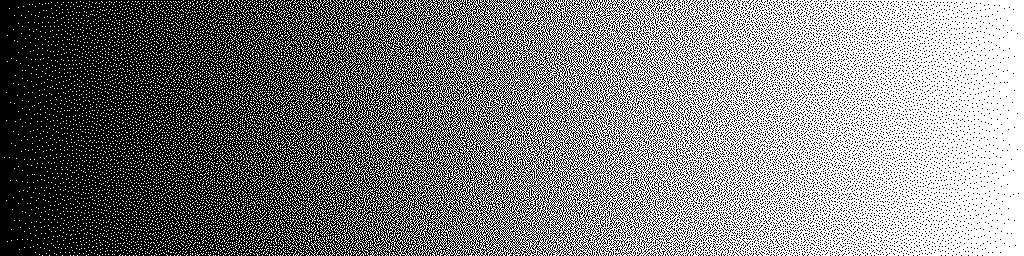
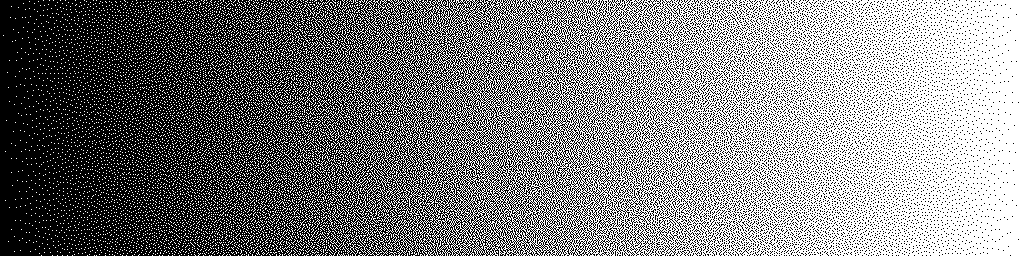
Include seeding area

diff --git a/tools/test_twelve/second_order_dither.py b/tools/test_twelve/second_order_dither.py
@@ -9,6 +9,11 @@ which should achieve +12 dB/octave.
 Uses mixed FS/JJN kernel switching for forward diffusion (our method),
 with a fixed FS reverse kernel for the second-order prediction.
 
+Implements edge seeding matching the Rust dither/basic.rs create_seeded_buffer:
+- reach=2 (JJN radius) padding with duplicated edge pixels
+- Processing includes seeding rows/columns to pre-warm error diffusion
+- No bounds checking in kernels (padding handles edges)
+
 Usage:
     python second_order_dither.py                    # Gray levels + gradient
     python second_order_dither.py --gray 0.5         # Single gray level
@@ -25,6 +30,9 @@ matplotlib.use('Agg')
 import matplotlib.pyplot as plt
 
 
+REACH = 2  # JJN kernel radius
+
+
 def lowbias32(x: np.uint32) -> np.uint32:
     """Lowbias32 hash - improved version with bias 0.107."""
     x = np.uint32(x)
@@ -37,144 +45,148 @@ def lowbias32(x: np.uint32) -> np.uint32:
 
 
 # ============================================================================
-# Error diffusion kernels
+# Seeded buffer (matches Rust create_seeded_buffer)
 # ============================================================================
 
-def apply_fs_ltr(buf, x, y, err):
-    h, w = buf.shape
-    if x + 1 < w:
-        buf[y, x + 1] += err * (7.0 / 16.0)
-    if y + 1 < h:
-        if x > 0:
-            buf[y + 1, x - 1] += err * (3.0 / 16.0)
-        buf[y + 1, x] += err * (5.0 / 16.0)
-        if x + 1 < w:
-            buf[y + 1, x + 1] += err * (1.0 / 16.0)
+def create_seeded_buffer(input_image):
+    """Create padded buffer with edge seeding, matching Rust create_seeded_buffer.
+
+    Buffer layout (reach=2):
+        cols: [0..2) overshoot | [2..4) left seed | [4..4+W) image | [4+W..6+W) right seed | [6+W..8+W) overshoot
+        rows: [0..2) top seed | [2..2+H) image | [2+H..4+H) bottom overshoot
+    """
+    height, width = input_image.shape
+    total_left = REACH * 2
+    total_right = REACH * 2
+    total_top = REACH
+    total_bottom = REACH
+
+    buf_width = total_left + width + total_right
+    buf_height = total_top + height + total_bottom
+    buf = np.zeros((buf_height, buf_width), dtype=np.float64)
+
+    # Copy real image data
+    buf[total_top:total_top + height, total_left:total_left + width] = input_image
+
+    seed_left_start = REACH  # columns [reach..reach*2]
+    seed_right_start = total_left + width  # columns [total_left+width..]
+
+    # Left seeding columns: duplicate first column of real image
+    for sx in range(REACH):
+        buf[total_top:total_top + height, seed_left_start + sx] = input_image[:, 0]
+
+    # Right seeding columns: duplicate last column of real image
+    for sx in range(REACH):
+        buf[total_top:total_top + height, seed_right_start + sx] = input_image[:, -1]
+
+    # Top seeding rows: duplicate first row (including seeding columns)
+    for sy in range(REACH):
+        # Left seeding area
+        for sx in range(REACH):
+            buf[sy, seed_left_start + sx] = input_image[0, 0]
+        # Real image area (first row)
+        buf[sy, total_left:total_left + width] = input_image[0, :]
+        # Right seeding area
+        for sx in range(REACH):
+            buf[sy, seed_right_start + sx] = input_image[0, -1]
+
+    return buf
 
 
-def apply_fs_rtl(buf, x, y, err):
-    h, w = buf.shape
-    if x > 0:
-        buf[y, x - 1] += err * (7.0 / 16.0)
-    if y + 1 < h:
-        if x + 1 < w:
-            buf[y + 1, x + 1] += err * (3.0 / 16.0)
-        buf[y + 1, x] += err * (5.0 / 16.0)
-        if x > 0:
-            buf[y + 1, x - 1] += err * (1.0 / 16.0)
+def extract_result(buf, width, height):
+    """Extract real pixels from seeded buffer."""
+    total_left = REACH * 2
+    total_top = REACH
+    return buf[total_top:total_top + height, total_left:total_left + width].copy()
 
 
-def apply_jjn_ltr(buf, x, y, err):
-    h, w = buf.shape
-    if x + 1 < w:
-        buf[y, x + 1] += err * (7.0 / 48.0)
-    if x + 2 < w:
-        buf[y, x + 2] += err * (5.0 / 48.0)
-    if y + 1 < h:
-        if x >= 2:
-            buf[y + 1, x - 2] += err * (3.0 / 48.0)
-        if x >= 1:
-            buf[y + 1, x - 1] += err * (5.0 / 48.0)
-        buf[y + 1, x] += err * (7.0 / 48.0)
-        if x + 1 < w:
-            buf[y + 1, x + 1] += err * (5.0 / 48.0)
-        if x + 2 < w:
-            buf[y + 1, x + 2] += err * (3.0 / 48.0)
-    if y + 2 < h:
-        if x >= 2:
-            buf[y + 2, x - 2] += err * (1.0 / 48.0)
-        if x >= 1:
-            buf[y + 2, x - 1] += err * (3.0 / 48.0)
-        buf[y + 2, x] += err * (5.0 / 48.0)
-        if x + 1 < w:
-            buf[y + 2, x + 1] += err * (3.0 / 48.0)
-        if x + 2 < w:
-            buf[y + 2, x + 2] += err * (1.0 / 48.0)
+# ============================================================================
+# Error diffusion kernels (no bounds checking - padded buffer handles edges)
+# ============================================================================
+
+def apply_fs_ltr(buf, bx, y, err):
+    buf[y, bx + 1] += err * (7.0 / 16.0)
+    buf[y + 1, bx - 1] += err * (3.0 / 16.0)
+    buf[y + 1, bx] += err * (5.0 / 16.0)
+    buf[y + 1, bx + 1] += err * (1.0 / 16.0)
 
 
-def apply_jjn_rtl(buf, x, y, err):
-    h, w = buf.shape
-    if x >= 1:
-        buf[y, x - 1] += err * (7.0 / 48.0)
-    if x >= 2:
-        buf[y, x - 2] += err * (5.0 / 48.0)
-    if y + 1 < h:
-        if x + 2 < w:
-            buf[y + 1, x + 2] += err * (3.0 / 48.0)
-        if x + 1 < w:
-            buf[y + 1, x + 1] += err * (5.0 / 48.0)
-        buf[y + 1, x] += err * (7.0 / 48.0)
-        if x >= 1:
-            buf[y + 1, x - 1] += err * (5.0 / 48.0)
-        if x >= 2:
-            buf[y + 1, x - 2] += err * (3.0 / 48.0)
-    if y + 2 < h:
-        if x + 2 < w:
-            buf[y + 2, x + 2] += err * (1.0 / 48.0)
-        if x + 1 < w:
-            buf[y + 2, x + 1] += err * (3.0 / 48.0)
-        buf[y + 2, x] += err * (5.0 / 48.0)
-        if x >= 1:
-            buf[y + 2, x - 1] += err * (3.0 / 48.0)
-        if x >= 2:
-            buf[y + 2, x - 2] += err * (1.0 / 48.0)
+def apply_fs_rtl(buf, bx, y, err):
+    buf[y, bx - 1] += err * (7.0 / 16.0)
+    buf[y + 1, bx + 1] += err * (3.0 / 16.0)
+    buf[y + 1, bx] += err * (5.0 / 16.0)
+    buf[y + 1, bx - 1] += err * (1.0 / 16.0)
 
 
-def apply_error(buf, x, y, err, use_jjn, is_rtl):
+def apply_jjn_ltr(buf, bx, y, err):
+    buf[y, bx + 1] += err * (7.0 / 48.0)
+    buf[y, bx + 2] += err * (5.0 / 48.0)
+    buf[y + 1, bx - 2] += err * (3.0 / 48.0)
+    buf[y + 1, bx - 1] += err * (5.0 / 48.0)
+    buf[y + 1, bx] += err * (7.0 / 48.0)
+    buf[y + 1, bx + 1] += err * (5.0 / 48.0)
+    buf[y + 1, bx + 2] += err * (3.0 / 48.0)
+    buf[y + 2, bx - 2] += err * (1.0 / 48.0)
+    buf[y + 2, bx - 1] += err * (3.0 / 48.0)
+    buf[y + 2, bx] += err * (5.0 / 48.0)
+    buf[y + 2, bx + 1] += err * (3.0 / 48.0)
+    buf[y + 2, bx + 2] += err * (1.0 / 48.0)
+
+
+def apply_jjn_rtl(buf, bx, y, err):
+    buf[y, bx - 1] += err * (7.0 / 48.0)
+    buf[y, bx - 2] += err * (5.0 / 48.0)
+    buf[y + 1, bx + 2] += err * (3.0 / 48.0)
+    buf[y + 1, bx + 1] += err * (5.0 / 48.0)
+    buf[y + 1, bx] += err * (7.0 / 48.0)
+    buf[y + 1, bx - 1] += err * (5.0 / 48.0)
+    buf[y + 1, bx - 2] += err * (3.0 / 48.0)
+    buf[y + 2, bx + 2] += err * (1.0 / 48.0)
+    buf[y + 2, bx + 1] += err * (3.0 / 48.0)
+    buf[y + 2, bx] += err * (5.0 / 48.0)
+    buf[y + 2, bx - 1] += err * (3.0 / 48.0)
+    buf[y + 2, bx - 2] += err * (1.0 / 48.0)
+
+
+def apply_error(buf, bx, y, err, use_jjn, is_rtl):
     if use_jjn:
         if is_rtl:
-            apply_jjn_rtl(buf, x, y, err)
+            apply_jjn_rtl(buf, bx, y, err)
         else:
-            apply_jjn_ltr(buf, x, y, err)
+            apply_jjn_ltr(buf, bx, y, err)
     else:
         if is_rtl:
-            apply_fs_rtl(buf, x, y, err)
+            apply_fs_rtl(buf, bx, y, err)
         else:
-            apply_fs_ltr(buf, x, y, err)
+            apply_fs_ltr(buf, bx, y, err)
 
 
 # ============================================================================
-# Reverse kernel lookup (what previous errors contributed to current pixel)
+# Reverse kernel lookup (for second-order prediction, padded buffer coords)
 # ============================================================================
 
-def predicted_incoming_fs(err_history, x, y, is_rtl):
-    """Estimate error that was diffused into (x,y) using FS reverse kernel.
+def predicted_incoming_fs(err_history, bx, y, is_rtl):
+    """Estimate error diffused into (bx, y) using FS reverse kernel.
 
-    For LTR row (even y), previous row was RTL:
-        7/16 from (x-1, y)   - same row, left
-        3/16 from (x-1, y-1) - upper-left (from RTL row's forward-below)
-        5/16 from (x, y-1)   - above
-        1/16 from (x+1, y-1) - upper-right (from RTL row's back-below)
-
-    For RTL row (odd y), previous row was LTR:
-        7/16 from (x+1, y)   - same row, right
-        3/16 from (x+1, y-1) - upper-right (from LTR row's back-below)
-        5/16 from (x, y-1)   - above
-        1/16 from (x-1, y-1) - upper-left (from LTR row's forward-below)
+    Works on padded buffer coordinates. Only needs y > 0 check since
+    at y=0 (first seeding row) there's no row above.
     """
-    h, w = err_history.shape
     pred = 0.0
 
     if is_rtl:
-        # Previous pixel is to the right
-        if x + 1 < w:
-            pred += (7.0 / 16.0) * err_history[y, x + 1]
+        # Previous pixel is to the right (already processed on RTL row)
+        pred += (7.0 / 16.0) * err_history[y, bx + 1]
         if y > 0:
-            if x + 1 < w:
-                pred += (3.0 / 16.0) * err_history[y - 1, x + 1]
-            pred += (5.0 / 16.0) * err_history[y - 1, x]
-            if x > 0:
-                pred += (1.0 / 16.0) * err_history[y - 1, x - 1]
+            pred += (3.0 / 16.0) * err_history[y - 1, bx + 1]
+            pred += (5.0 / 16.0) * err_history[y - 1, bx]
+            pred += (1.0 / 16.0) * err_history[y - 1, bx - 1]
     else:
-        # Previous pixel is to the left
-        if x > 0:
-            pred += (7.0 / 16.0) * err_history[y, x - 1]
+        # Previous pixel is to the left (already processed on LTR row)
+        pred += (7.0 / 16.0) * err_history[y, bx - 1]
         if y > 0:
-            if x > 0:
-                pred += (3.0 / 16.0) * err_history[y - 1, x - 1]
-            pred += (5.0 / 16.0) * err_history[y - 1, x]
-            if x + 1 < w:
-                pred += (1.0 / 16.0) * err_history[y - 1, x + 1]
+            pred += (3.0 / 16.0) * err_history[y - 1, bx - 1]
+            pred += (5.0 / 16.0) * err_history[y - 1, bx]
+            pred += (1.0 / 16.0) * err_history[y - 1, bx + 1]
 
     return pred
 
@@ -184,64 +196,81 @@ def predicted_incoming_fs(err_history, x, y, is_rtl):
 # ============================================================================
 
 def dither_first_order(input_image, seed=0):
-    """Standard mixed FS/JJN error diffusion (first-order, +6 dB/oct)."""
+    """Standard mixed FS/JJN error diffusion with edge seeding (first-order, +6 dB/oct)."""
     height, width = input_image.shape
-    buf = input_image.copy().astype(np.float64)
-    output = np.zeros((height, width), dtype=np.float64)
+    buf = create_seeded_buffer(input_image)
     hashed_seed = lowbias32(np.uint32(seed))
 
-    for y in range(height):
-        is_rtl = y % 2 == 1
-        x_range = range(width - 1, -1, -1) if is_rtl else range(width)
+    bx_start = REACH  # skip left overshoot
+    process_height = REACH + height  # seeding rows + real rows
+    process_width = REACH + width + REACH  # left seed + real + right seed
 
-        for x in x_range:
-            old_val = buf[y, x]
+    for y in range(process_height):
+        is_rtl = y % 2 == 1
+        px_range = range(process_width - 1, -1, -1) if is_rtl else range(process_width)
+
+        for px in px_range:
+            bx = bx_start + px
+            old_val = buf[y, bx]
             new_val = 1.0 if old_val > 0.5 else 0.0
-            output[y, x] = new_val
+            buf[y, bx] = new_val
             err = old_val - new_val
 
-            coord_hash = lowbias32(np.uint32(x) ^ (np.uint32(y) << np.uint32(16)) ^ hashed_seed)
+            # Map buffer px to image coordinates for hash (saturating_sub)
+            img_x = max(px - REACH, 0)
+            img_y = max(y - REACH, 0)
+            coord_hash = lowbias32(np.uint32(img_x) ^ (np.uint32(img_y) << np.uint32(16)) ^ hashed_seed)
             use_jjn = (coord_hash & 1) == 1
-            apply_error(buf, x, y, err, use_jjn, is_rtl)
+            apply_error(buf, bx, y, err, use_jjn, is_rtl)
 
-    return output
+    return extract_result(buf, width, height)
 
 
 def dither_second_order(input_image, seed=0):
-    """Second-order mixed FS/JJN error diffusion (+12 dB/oct target).
+    """Second-order mixed FS/JJN error diffusion with edge seeding (+12 dB/oct target).
 
     Diffuses shaped error: d = 2*err - C*err (reverse FS kernel on raw errors).
     NTF = (1 - C(z))^2 for +12 dB/octave noise shaping.
     """
     height, width = input_image.shape
-    buf = input_image.copy().astype(np.float64)
-    output = np.zeros((height, width), dtype=np.float64)
-    err_history = np.zeros((height, width), dtype=np.float64)
+    buf = create_seeded_buffer(input_image)
+
+    # err_history in padded buffer dimensions
+    buf_h, buf_w = buf.shape
+    err_history = np.zeros((buf_h, buf_w), dtype=np.float64)
+
     hashed_seed = lowbias32(np.uint32(seed))
 
-    for y in range(height):
-        is_rtl = y % 2 == 1
-        x_range = range(width - 1, -1, -1) if is_rtl else range(width)
+    bx_start = REACH
+    process_height = REACH + height
+    process_width = REACH + width + REACH
 
-        for x in x_range:
-            old_val = buf[y, x]
+    for y in range(process_height):
+        is_rtl = y % 2 == 1
+        px_range = range(process_width - 1, -1, -1) if is_rtl else range(process_width)
+
+        for px in px_range:
+            bx = bx_start + px
+            old_val = buf[y, bx]
             new_val = 1.0 if old_val > 0.5 else 0.0
-            output[y, x] = new_val
+            buf[y, bx] = new_val
             err = old_val - new_val
 
             # Second-order: shaped_err = 2*err - predicted_incoming
-            predicted = predicted_incoming_fs(err_history, x, y, is_rtl)
+            predicted = predicted_incoming_fs(err_history, bx, y, is_rtl)
             shaped_err = 2.0 * err - predicted
 
             # Store raw error for future reverse lookups
-            err_history[y, x] = err
+            err_history[y, bx] = err
 
-            # Diffuse shaped error using mixed FS/JJN
-            coord_hash = lowbias32(np.uint32(x) ^ (np.uint32(y) << np.uint32(16)) ^ hashed_seed)
+            # Map to image coordinates for hash (saturating_sub)
+            img_x = max(px - REACH, 0)
+            img_y = max(y - REACH, 0)
+            coord_hash = lowbias32(np.uint32(img_x) ^ (np.uint32(img_y) << np.uint32(16)) ^ hashed_seed)
             use_jjn = (coord_hash & 1) == 1
-            apply_error(buf, x, y, shaped_err, use_jjn, is_rtl)
+            apply_error(buf, bx, y, shaped_err, use_jjn, is_rtl)
 
-    return output
+    return extract_result(buf, width, height)
 
 
 # ============================================================================
